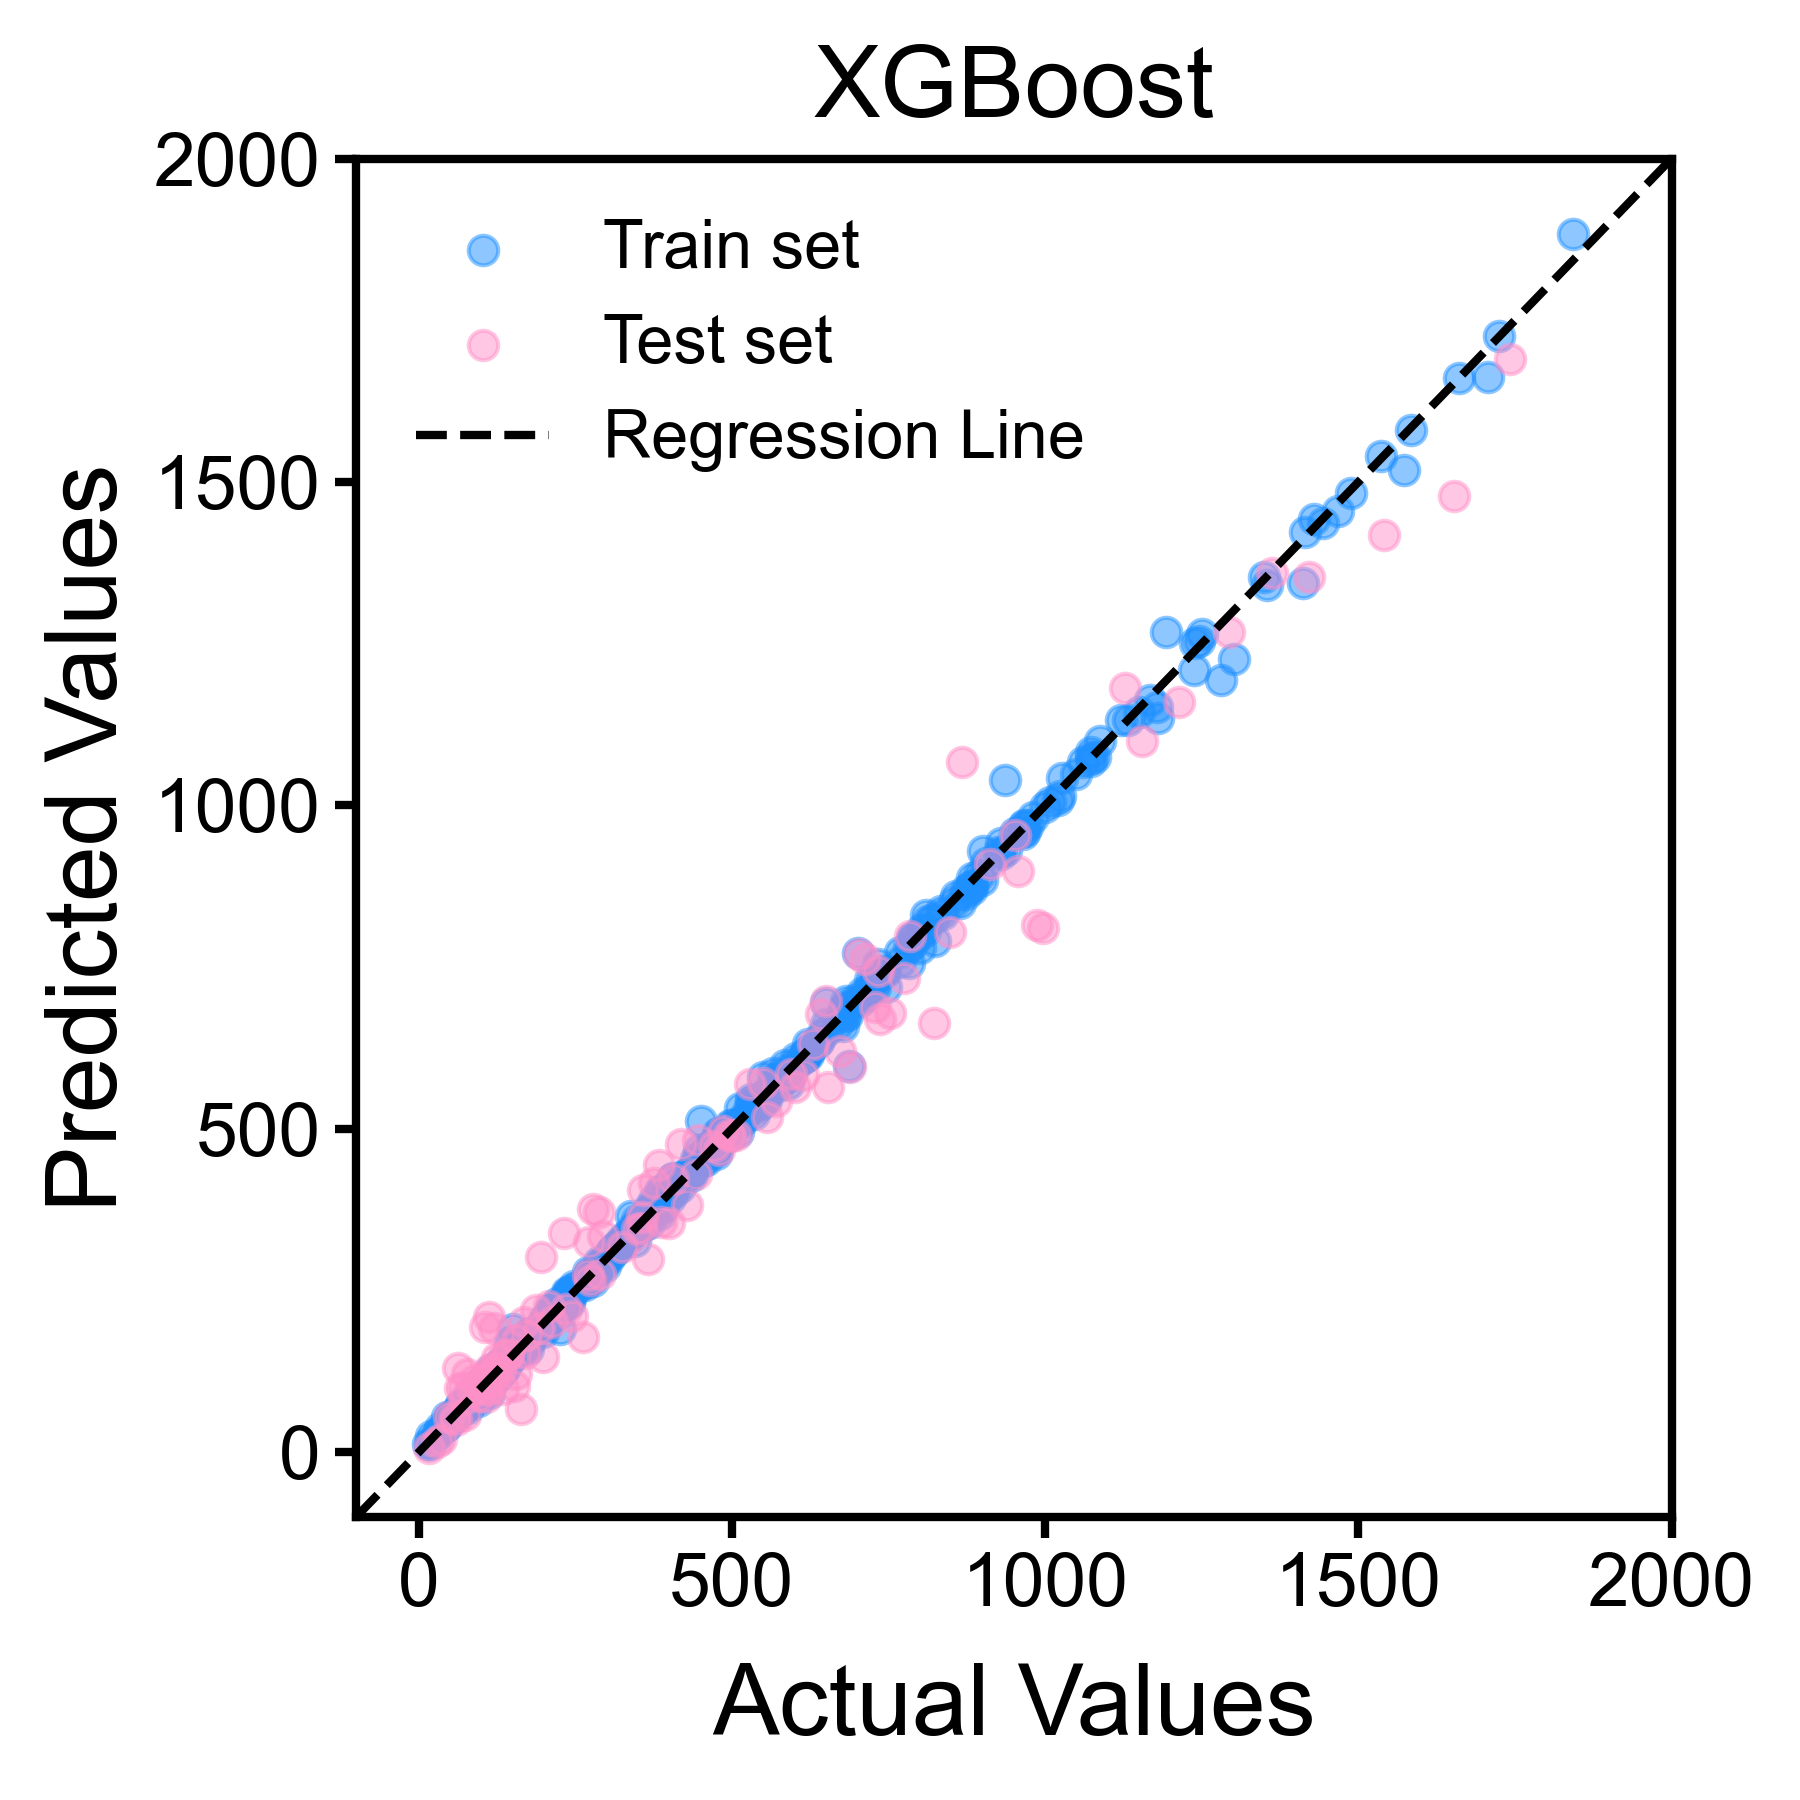
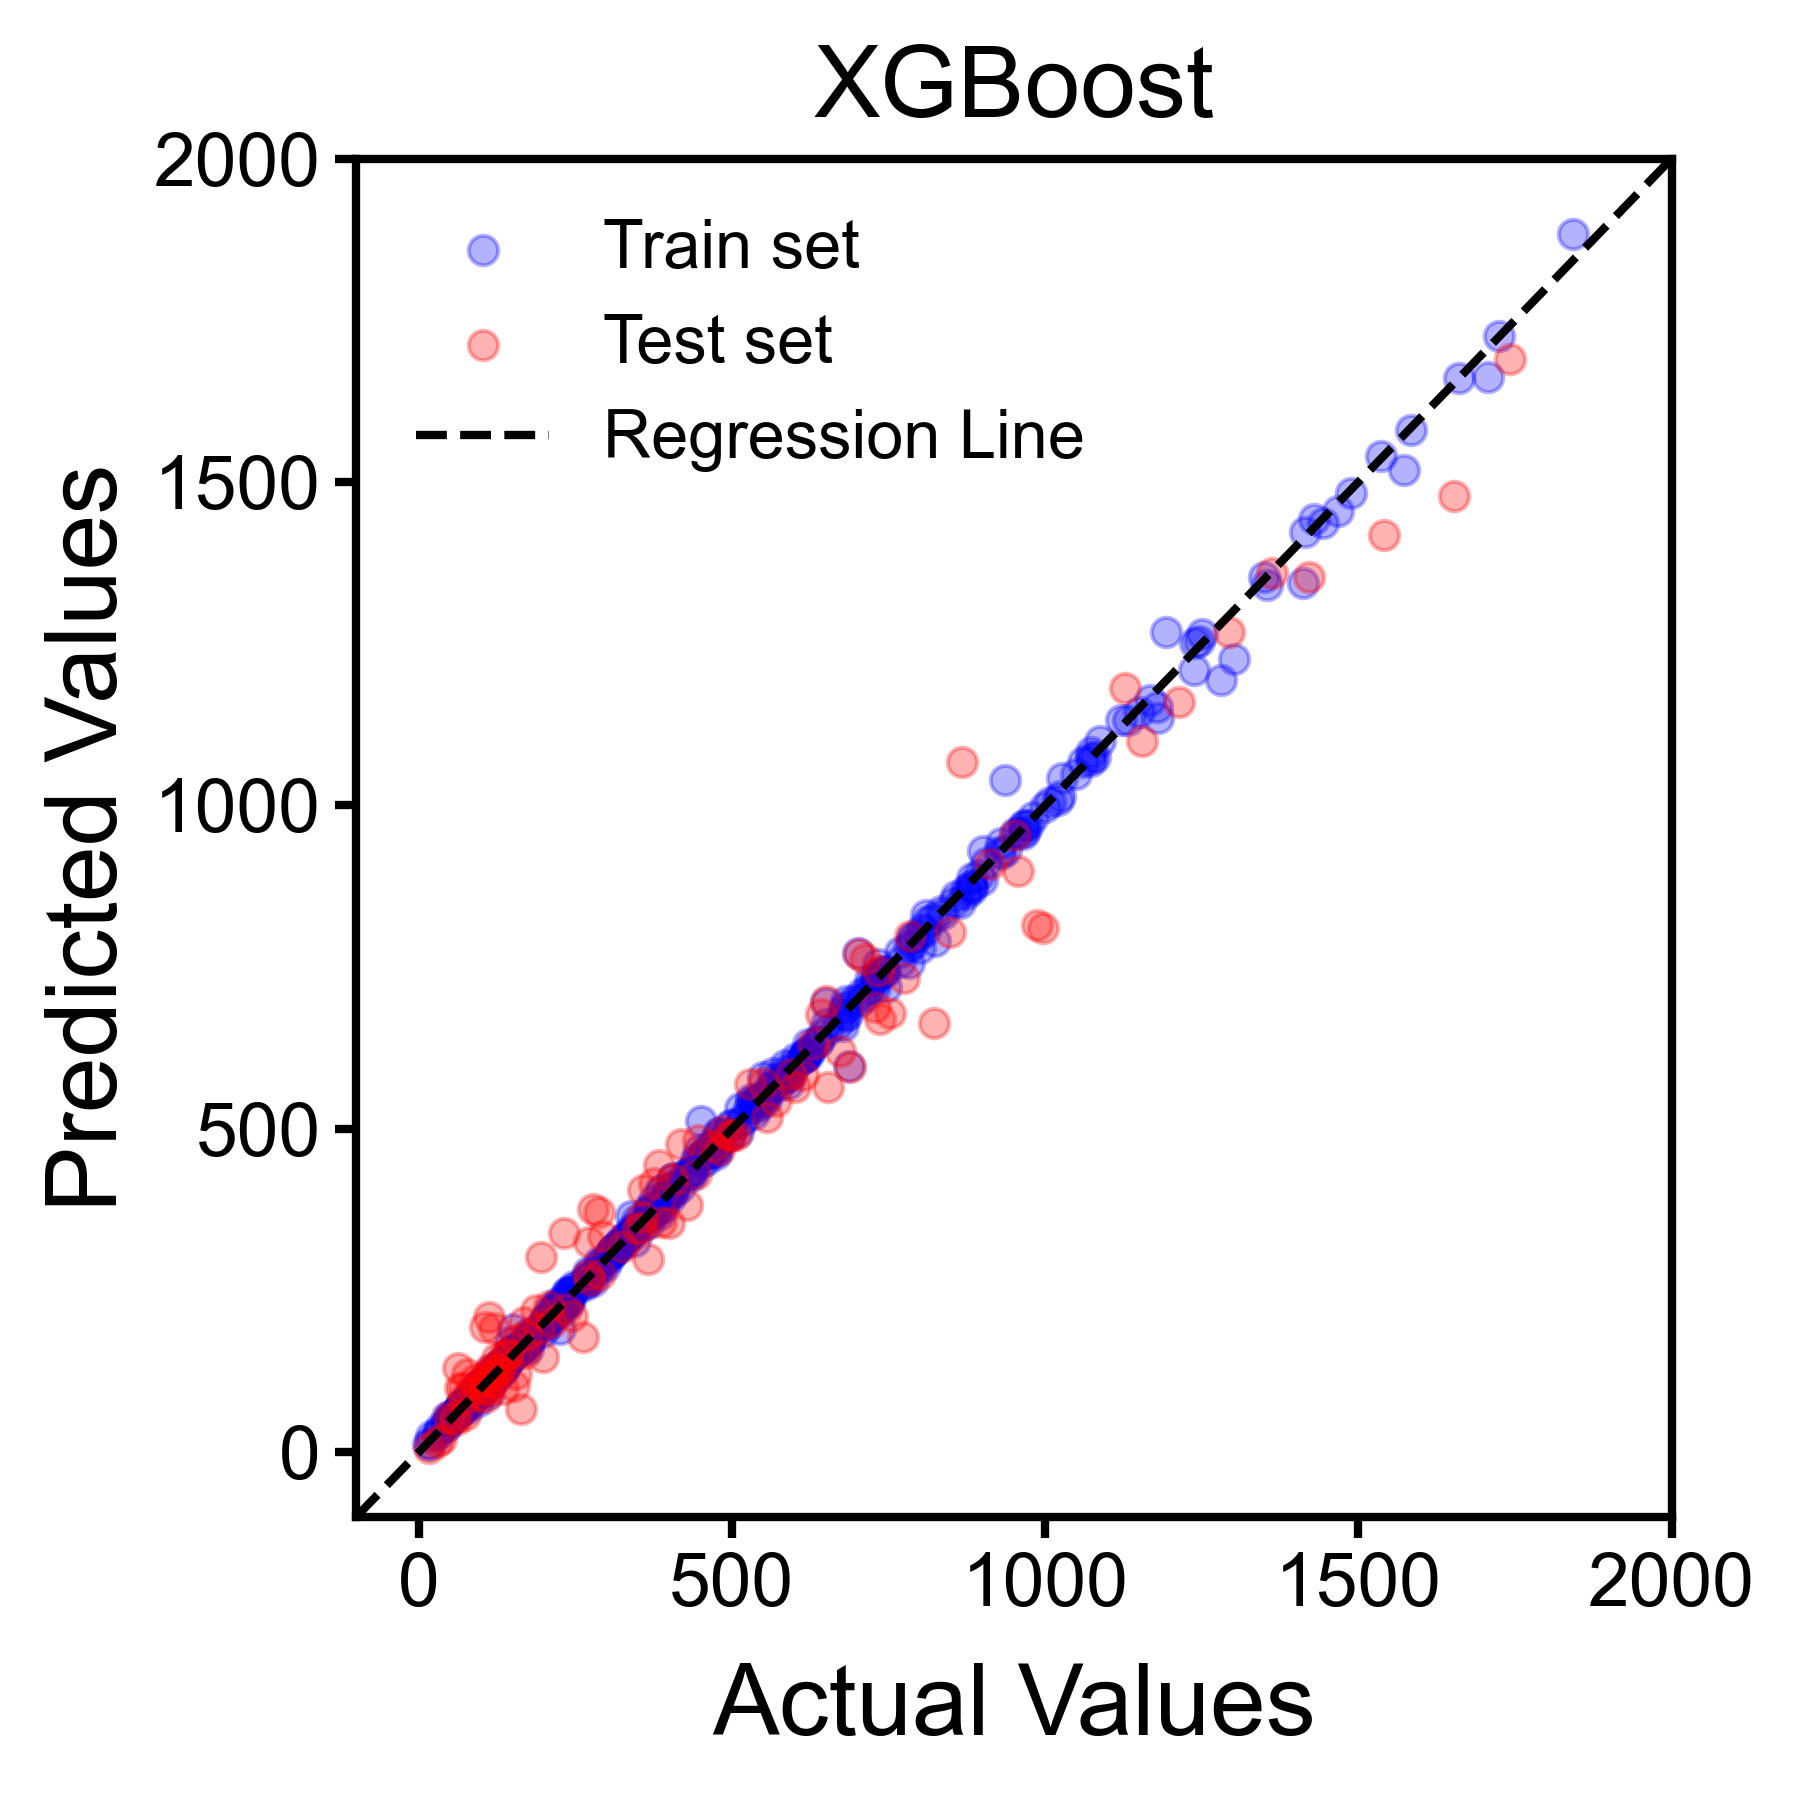
Ver0.9.2 修改了一些图片输出，优化了SHAP输出图片

diff --git a/scripts/evaluate_model.py b/scripts/evaluate_model.py
@@ -81,8 +81,8 @@ class ModelEvaluator:
         # fig.suptitle(figtitle, fontsize=24, fontname="Arial", y=0.98)
 
         # 绘制散点图
-        ax.scatter(self.y_train, self.y_train_pred, color=(30/255, 144/255, 255/255), label='Train set', s=50, alpha=0.5)
-        ax.scatter(self.y_test, self.y_test_pred, color=(255/255, 144/255, 200/255), label='Test set', s=50, alpha=0.5)
+        ax.scatter(self.y_train, self.y_train_pred, color="blue", label='Train set', s=50, alpha=0.3)
+        ax.scatter(self.y_test, self.y_test_pred, color="red", label='Test set', s=50, alpha=0.3)
 
         # **固定坐标轴范围**
         ax.set_xlim(-100, 2000)  # Adjusted to ensure no negative values
